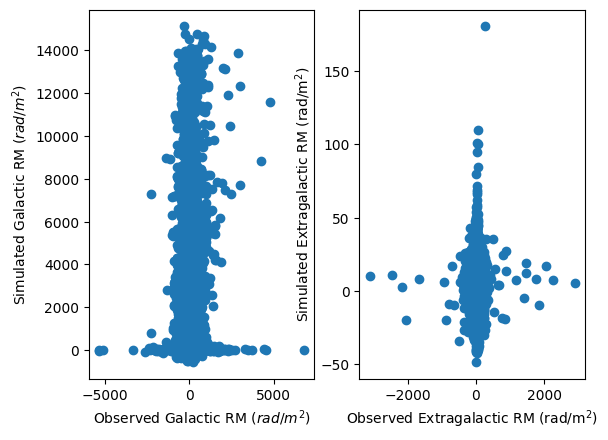
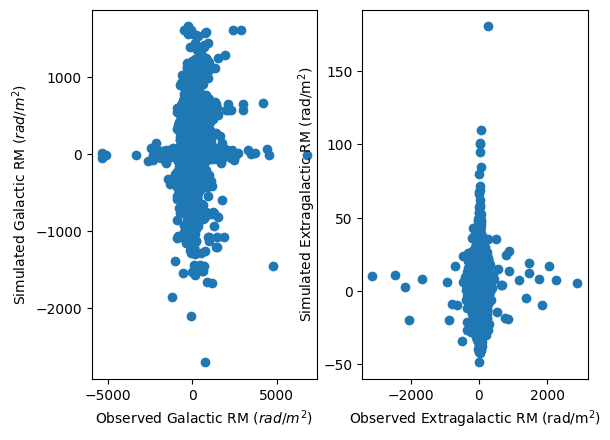
Revised mock delta_rm for noise inference.

diff --git a/catalog_maker.py b/catalog_maker.py
@@ -122,25 +122,37 @@ class CatalogMaker():
         print('Gal Noise std =', noise_gal)
 
         rm_data=np.array(eg_gal_data.val)
-
+        delta_rm_list=[]
         if self.params['params_mock_cat.maker_params.npi']==1:
             b_indices=np.where(np.isnan(data['z_best']))[0]
             np.random.seed(seed=self.params['params_mock_cat.maker_params.seed'])
             npi_indices=np.unique(np.random.choice(b_indices, size=self.params['params_mock_cat.maker_params.npi_los']))
             print(npi_indices)
             print(npi_indices.size)
-            
-            mask=np.full(len(rm_data),False,dtype=bool)
-            mask[npi_indices]=True
-            rm_data[mask] += 14000*np.exp(-np.abs(eg_b[npi_indices]))
-            np.random.seed(seed=self.params['params_mock_cat.maker_params.seed'])
-            delta_rm=np.random.normal(1.4, 0.5,len(rm_data[~mask].size))
-            rm_data[~mask] += delta_rm
+            for item in b_indices:
+                if item in npi_indices:
+                    if np.abs(eg_b[item])>=10.0:
+                        delta_rm=np.sqrt(2.5)
+                        rm_data[item] += delta_rm
+                        delta_rm_list.append(delta_rm)
+                    if np.abs(eg_b[item])>=0.0 and np.abs(eg_b[item])<10.0:
+                        delta_rm=np.sqrt(4.0e6*np.exp(-(eg_b[item])**2/8.0)/np.sqrt(8.0*np.pi)+2.5)
+                        rm_data[item] += delta_rm
+                        delta_rm_list.append(delta_rm)
+                    if np.abs(eg_b[item])>-10.0 and np.abs(eg_b[item])<0.0:
+                        delta_rm=np.sqrt(4.0e6*np.exp(-(eg_b[item])**2/8.0)/np.sqrt(8.0*np.pi)+2.5)
+                        rm_data[item] += -delta_rm
+                        delta_rm_list.append(delta_rm)
+                #else:
+                #    np.random.seed(seed=self.params['params_mock_cat.maker_params.seed'])
+                #    delta_rm=np.random.normal(0, 90-np.abs(eg_b[item]))
+                #    rm_data[item] += delta_rm
+                #    eta_list.append(delta_rm)
 
-           # y = rm_data
-           # for i in (npi_indices):
-           #     rm_data[i]+=14000*np.exp(-eg_b[i])
 
+        delta_rm_array=np.array(delta_rm_list)
+        plt.scatter(np.abs(eg_b[npi_indices]), delta_rm_array)
+        plt.savefig('Delta_rm.png', bbox_inches='tight')
 
         N_eg = ift.ScalingOperator(ift.UnstructuredDomain(lerm), noise_eg, np.float64)
         N_gal = ift.ScalingOperator(ift.UnstructuredDomain(ltheta-lerm), noise_gal, np.float64)
